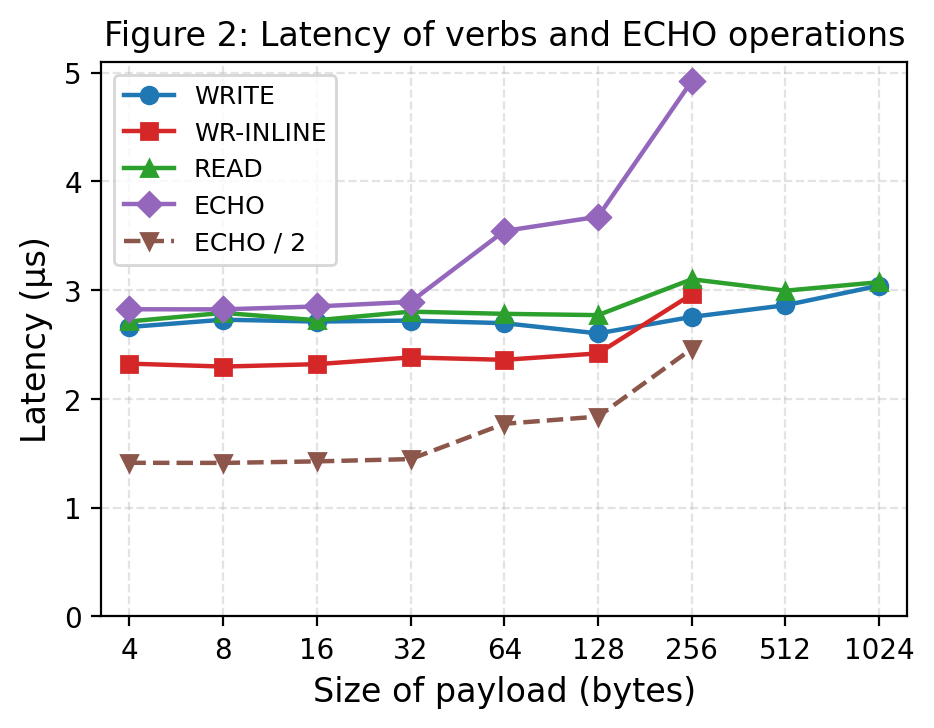
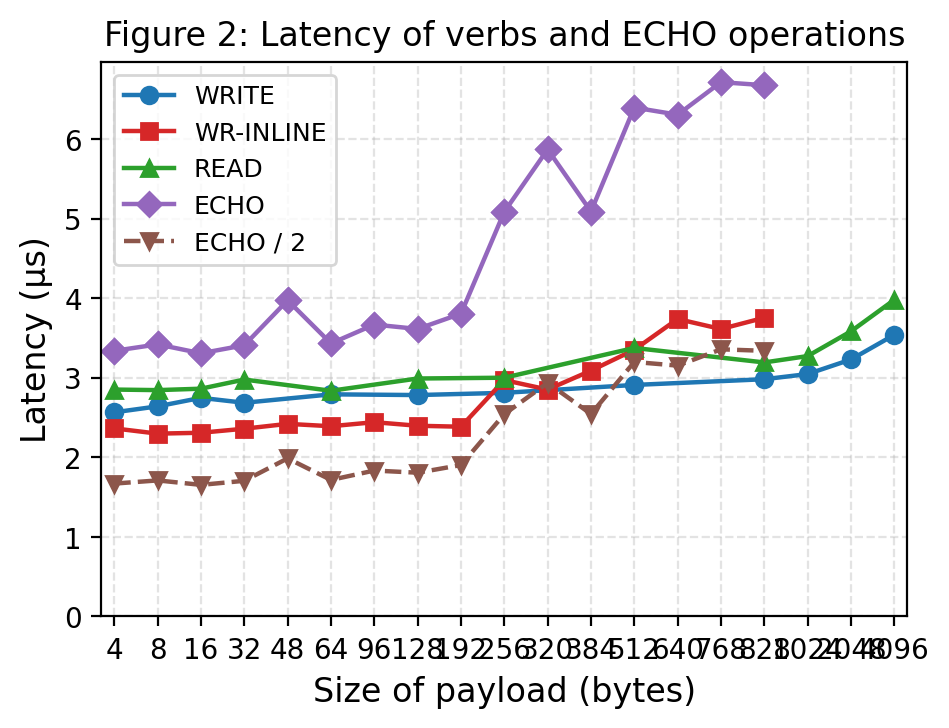
update 9.22

diff --git a/scripts/plot_paper_figs.py b/scripts/plot_paper_figs.py
@@ -43,10 +43,13 @@ STYLE = {
 
 # HW-native payload axis (CX-5); old paper ticks kept as comment only.
 # TICKS_FIG2_3 = [4, 8, 16, 32, 64, 128, 256, 512, 1024]
-DEFAULT_SIZES_FULL = [4, 8, 16, 32, 64, 128, 256, 512, 828, 1024, 2048, 4096]
-DEFAULT_SIZES_OUT = [
-    4, 8, 16, 32, 48, 64, 96, 128, 192, 256, 320, 384, 512, 640, 768, 828, 1024, 2048, 4096
-]
+DEFAULT_SIZES_FULL = [4, 8, 16, 32, 64, 128, 256, 512, 1024, 2048, 4096]
+DEFAULT_SIZES_OUT = [4, 8, 16, 32, 64, 128, 256, 512, 828, 956, 1024, 2048, 4096]
+# denser defaults (kept):
+# DEFAULT_SIZES_FULL = [4, 8, 16, 32, 64, 128, 256, 512, 828, 1024, 2048, 4096]
+# DEFAULT_SIZES_OUT = [
+#     4, 8, 16, 32, 48, 64, 96, 128, 192, 256, 320, 384, 512, 640, 768, 828, 956, 1024, 2048, 4096
+# ]
 TICKS_FIG6 = [0, 4, 8, 12, 16]
 
 COLORS = {
@@ -398,7 +401,8 @@ def plot_fig5(results: Path, demo: bool = False):
 
 def plot_fig6(results: Path, demo: bool = False):
     path = results / "fig6.csv"
-    measure = [1, 2, 4, 6, 8, 10, 12, 14, 16]
+    measure = [2, 4, 8, 12, 16]
+    # denser: measure = [1, 2, 4, 6, 8, 10, 12, 14, 16]
     if demo and not path.exists():
         rows = []
         for n in measure:

diff --git a/README.md b/README.md
@@ -49,11 +49,11 @@ config is commented in `scripts/paper_config.sh` / `common.h`):
 
 | Figure | X axis | Measured sizes | Inline policy |
 |--------|--------|----------------|---------------|
-| Fig. 2 | 4 … 4096 | WRITE / READ: `…4096`; WR-INLINE / ECHO: `…828` | only WR-INLINE + ECHO |
-| Fig. 3 | 4 … 4096 | all: through 4096 | **no** inline (DMA WRITE / READ) |
-| Fig. 4 | 4 … 4096 | dense to 828/956 then 1K/2K/4K | WR-UC-INLINE ≤828; SEND-UD ≤956; WRITE-UC no |
+| Fig. 2 | 4 … 4096 | WRITE / READ: powers of 2 to 4096; WR-INLINE / ECHO: `…512,828` | only WR-INLINE + ECHO |
+| Fig. 3 | 4 … 4096 | powers of 2 to 4096 | **no** inline (DMA WRITE / READ) |
+| Fig. 4 | 4 … 4096 | powers of 2 + 828/956 cliff | WR-UC-INLINE ≤828; SEND-UD ≤956; WRITE-UC no |
 | Fig. 5 | (bars) | fixed **32** bytes | only `+inlined` bars |
-| Fig. 6 | 0 … 16 processes | `n = 1 2 4 6 8 10 12 14 16`, payload **32** B | all inlined |
+| Fig. 6 | 0 … 16 processes | `n = 2 4 8 12 16`, payload **32** B | all inlined |
 
 `PAPER_INLINE_MAX=828` / `VT_MAX_INLINE=828` = mlx5_0 RC/UC grant;
 `PAPER_INLINE_MAX_UD=956` / `VT_MAX_INLINE_UD=956` for UD. Absolute Mops still
